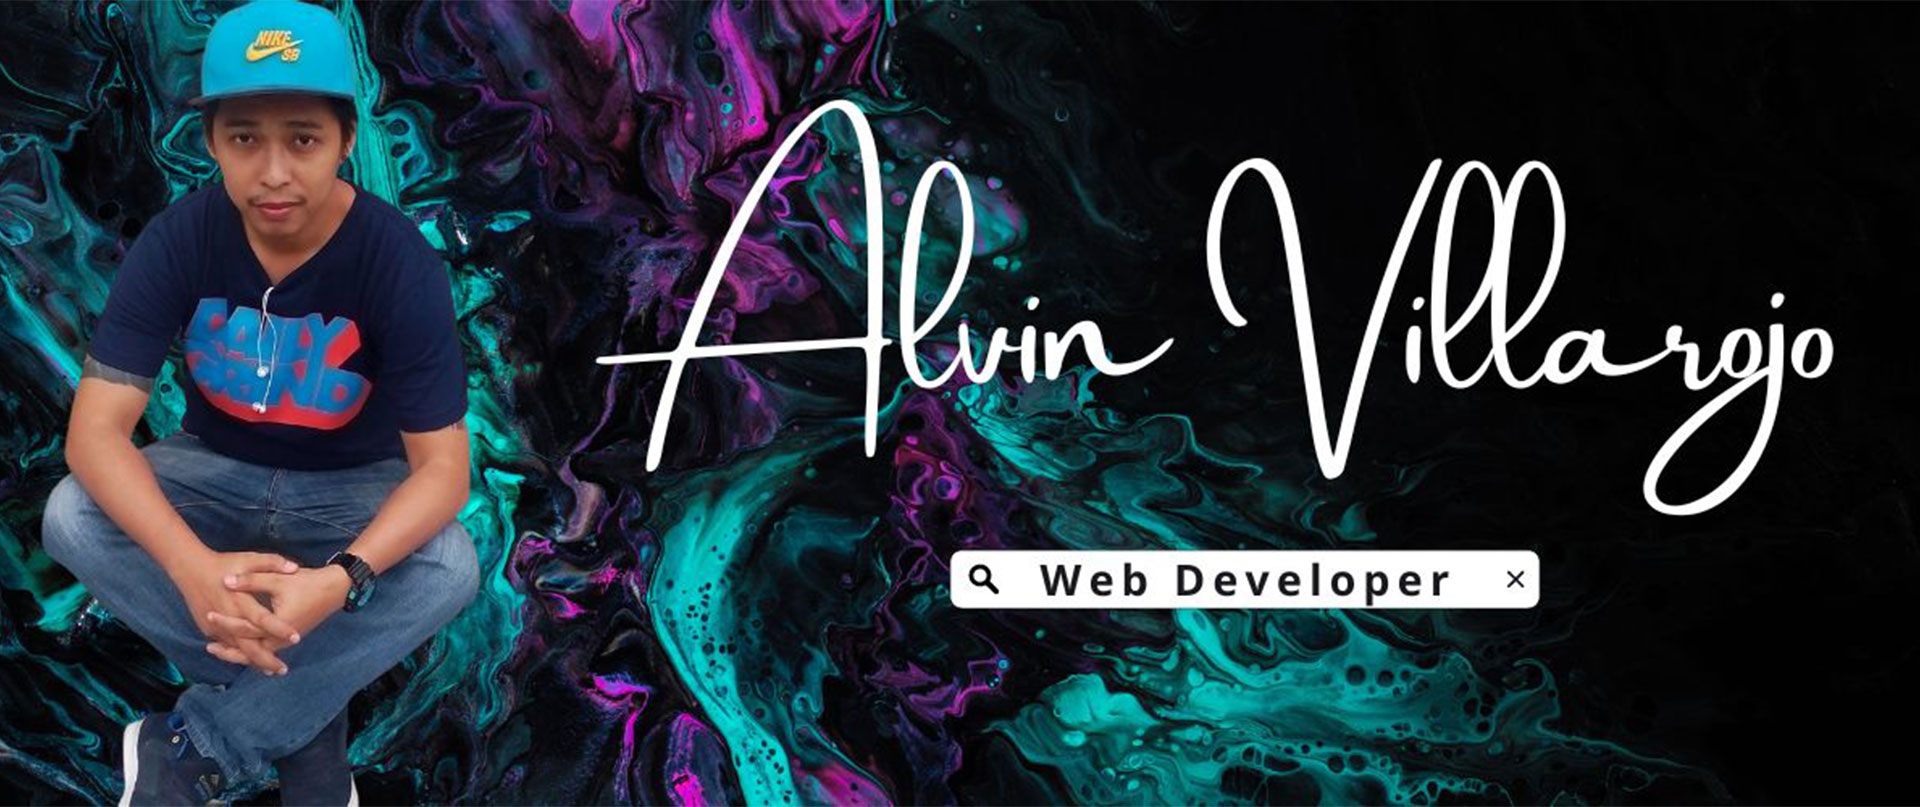
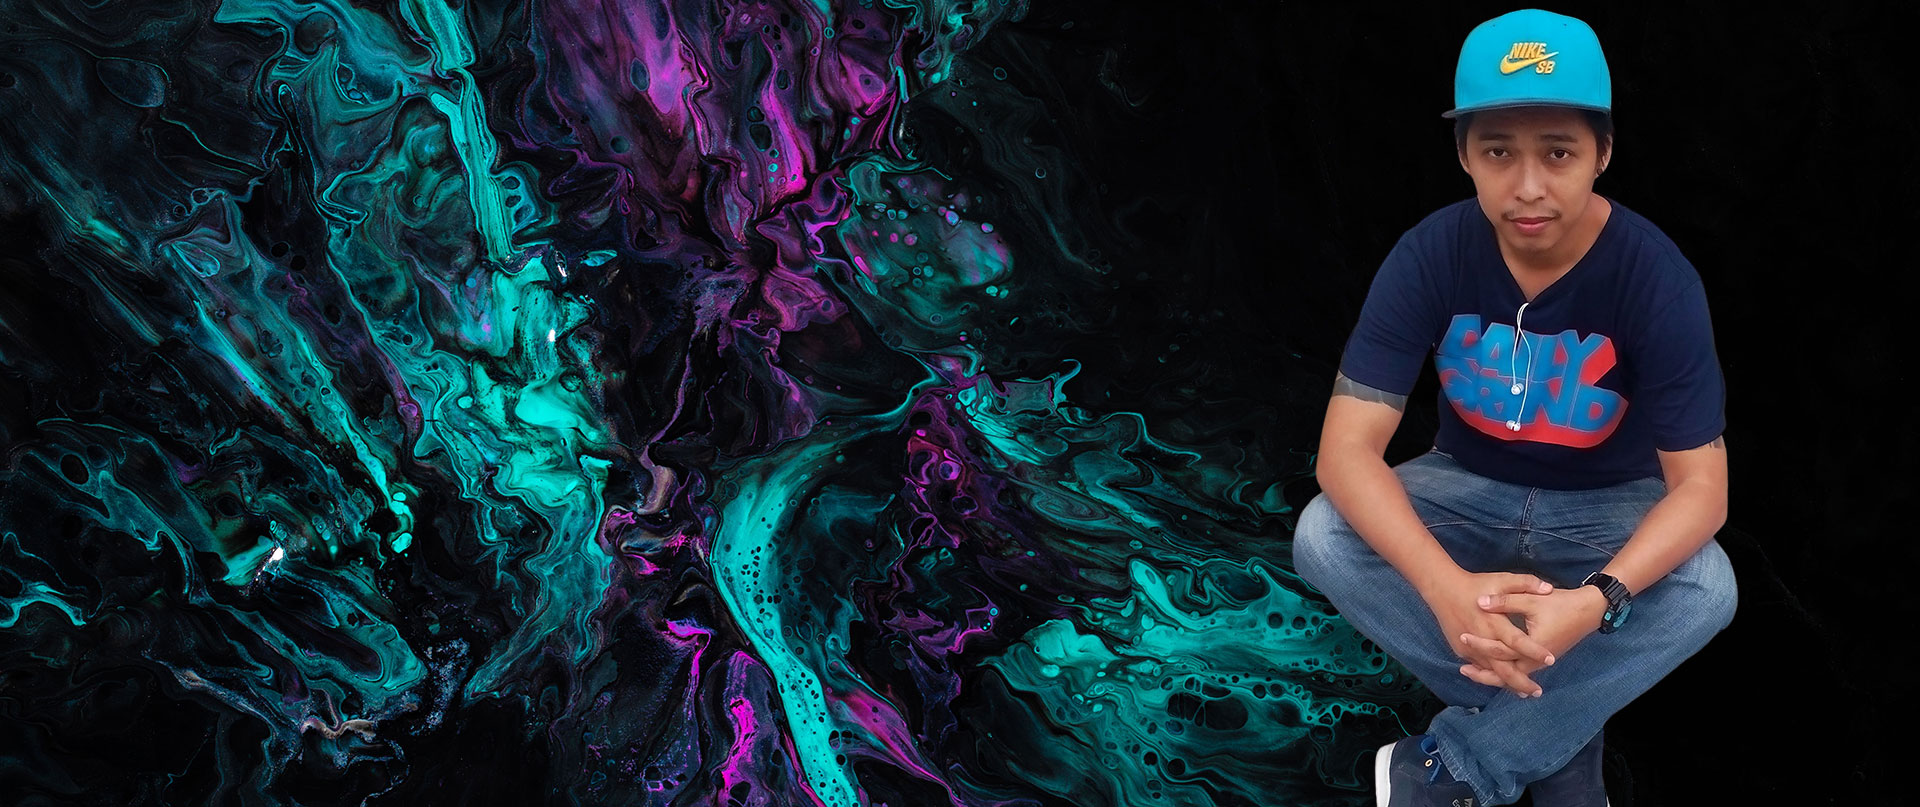
c

diff --git a/css/templatemo-style.css b/css/templatemo-style.css
@@ -171,7 +171,7 @@ h1,h2,h3,h4,h5
 /* start home */       
 #home
 	{
-        background: url('../images/home-bg.jpg');
+        background: url('../images/myheader.jpg');
         background-size: cover;
         background-repeat: no-repeat;
         padding-top: 120px;
